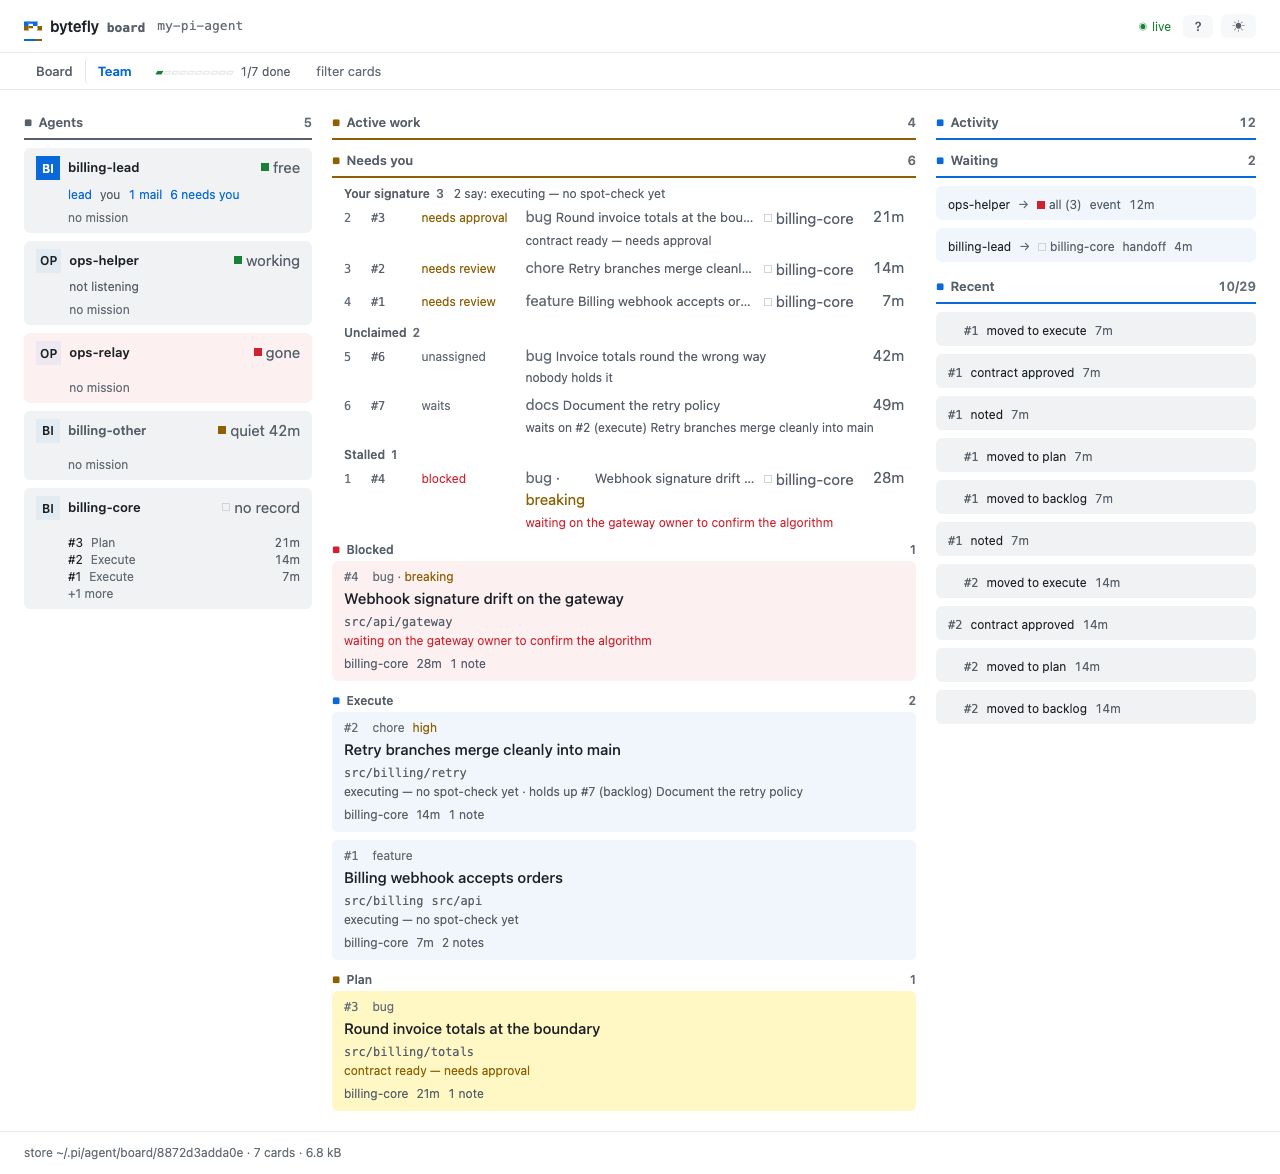
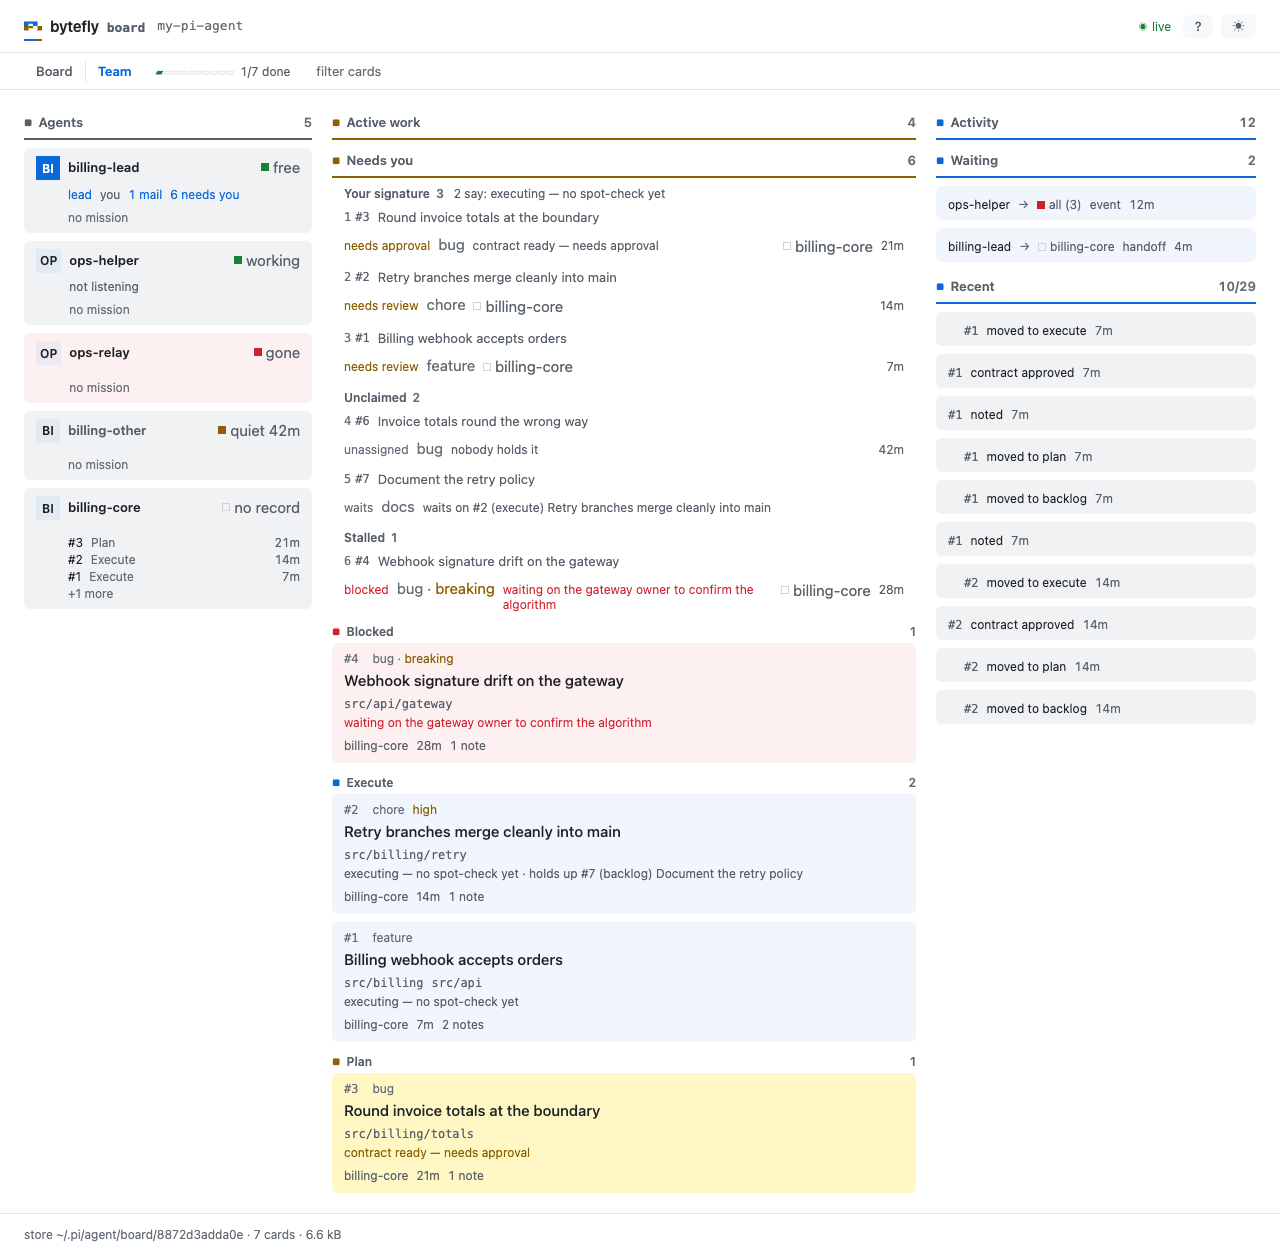
docs(board): the queue's picture is one column of two-line asks
team.png recaptured at 1280x1256 (was 1280x1174) and the alt rewritten from the image: one
column of three bands, each ask a title line with its pill, kind, reason, owner and age under it.
The site copy is synced, so the byte-identical gate holds.

diff --git a/docs/extensions/team.md b/docs/extensions/team.md
@@ -7,7 +7,7 @@ listening with `wake` is woken for it ([`session-bus`](session-bus.md) owns that
 A card's own state — `claim`, `reclaim`, the moves, the contract, the two signs — is
 [`board`](board.md)'s. What outlives the round is the project's [`memory`](memory.md) store.
 
-<img src="../../assets/screens/team.png" alt="The Team tab as three columns: AGENTS with the lead pinned first and one card per session carrying a monogram, its state, its mail and its missions; ACTIVE WORK with a NEEDS YOU queue in three bands — YOUR SIGNATURE, UNCLAIMED and STALLED — each ask one line with its reason printed under it, over BLOCKED, EXECUTE and PLAN swimlanes; ACTIVITY with WAITING mail and a RECENT rail" width="1280" height="1174">
+<img src="../../assets/screens/team.png" alt="The Team tab as three columns: AGENTS with the lead pinned first and one card per session carrying a monogram, its state, its mail and its missions; ACTIVE WORK with a NEEDS YOU queue in one column of three bands — YOUR SIGNATURE, UNCLAIMED and STALLED — each ask a title line with its pill, kind, reason, owner and age under it, over BLOCKED, EXECUTE and PLAN swimlanes; ACTIVITY with WAITING mail and a RECENT rail" width="1280" height="1256">
 
 The board's Team tab is the same round as a page, in three columns that each count themselves and
 scroll as one. **AGENTS** holds a card per session, the lead pinned first: a monogram, its state
